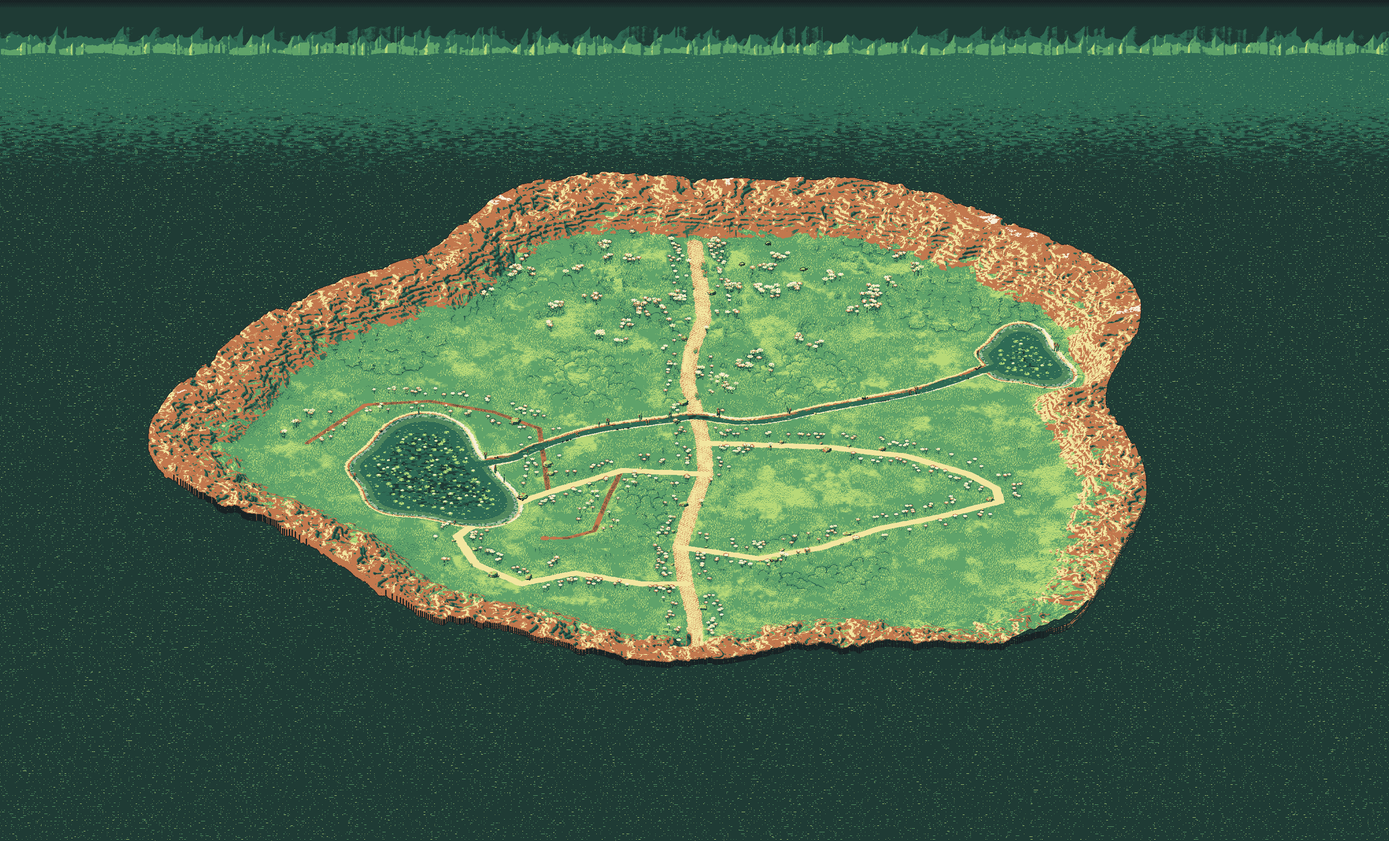
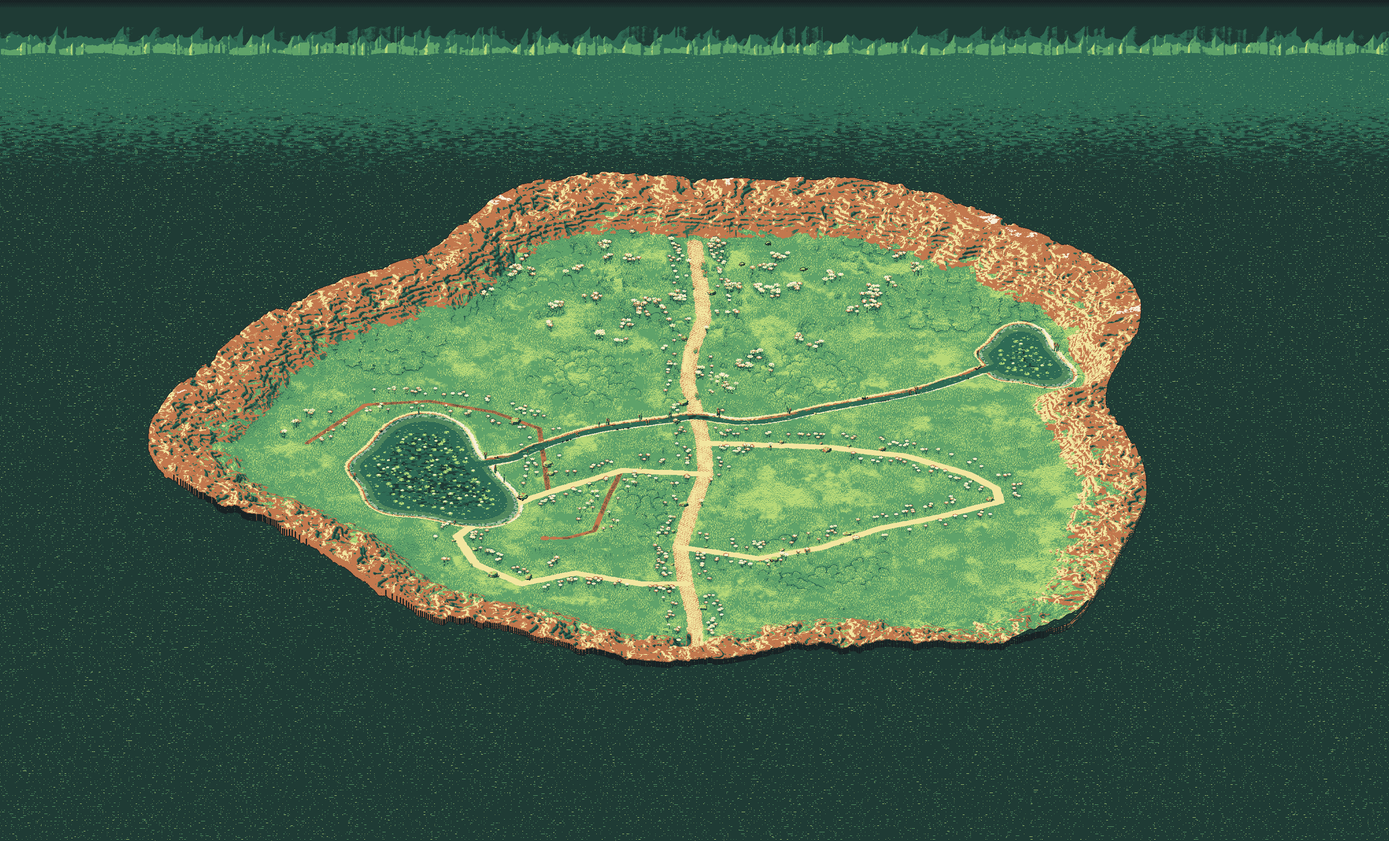
Denser grass clump density on Larkmoor (#548)
Raises the clump threshold in grass style G so the blade clumps read at
game size. Regenerated the Larkmoor ground layers and snapped the sway
tips back onto palette 4 (tools/art/outer_ground.py snap_sway_tips).

Claude-Session: https://claude.ai/code/session_01Pmx9dT3qdV6buBzqN7myn4

diff --git a/tools/art/grass_tex.py b/tools/art/grass_tex.py
@@ -140,7 +140,7 @@ def style_clumpblades(XX, YY, nz):
     D = (fbm2(XX / 56.0, YY * 2 / 56.0, 3, 101) - .5) * .42 + (fbm2(XX / 90.0, YY * 2 / 90.0, 2, 102) - .5) * .16
     px, py, r = _anchors(W, H, 3, 3, 35)
     dens = fbm2(px / 26.0, py * 2 / 26.0, 3, 103)
-    keep = r < np.clip((dens - .34) * 3.8, 0, .95)                     # clumps gather where the field is high, denser than before
+    keep = r < np.clip((dens - .30) * 4.2, 0, .97)                     # clumps gather where the field is high; denser again for the 1x read (density pass)
     px, py, r2 = px[keep], py[keep], r[keep]
     tall = (r2 * 7919 % 1.0) < .75                                     # most blades are the taller kind, so clumps read at 1x
     T = np.zeros((H, W))

diff --git a/changelog.d/grass-clump-density.patch.md b/changelog.d/grass-clump-density.patch.md
@@ -1,0 +1,1 @@
+Grass clumps on the Larkmoor ground are denser, so the blade texture reads at game size.
